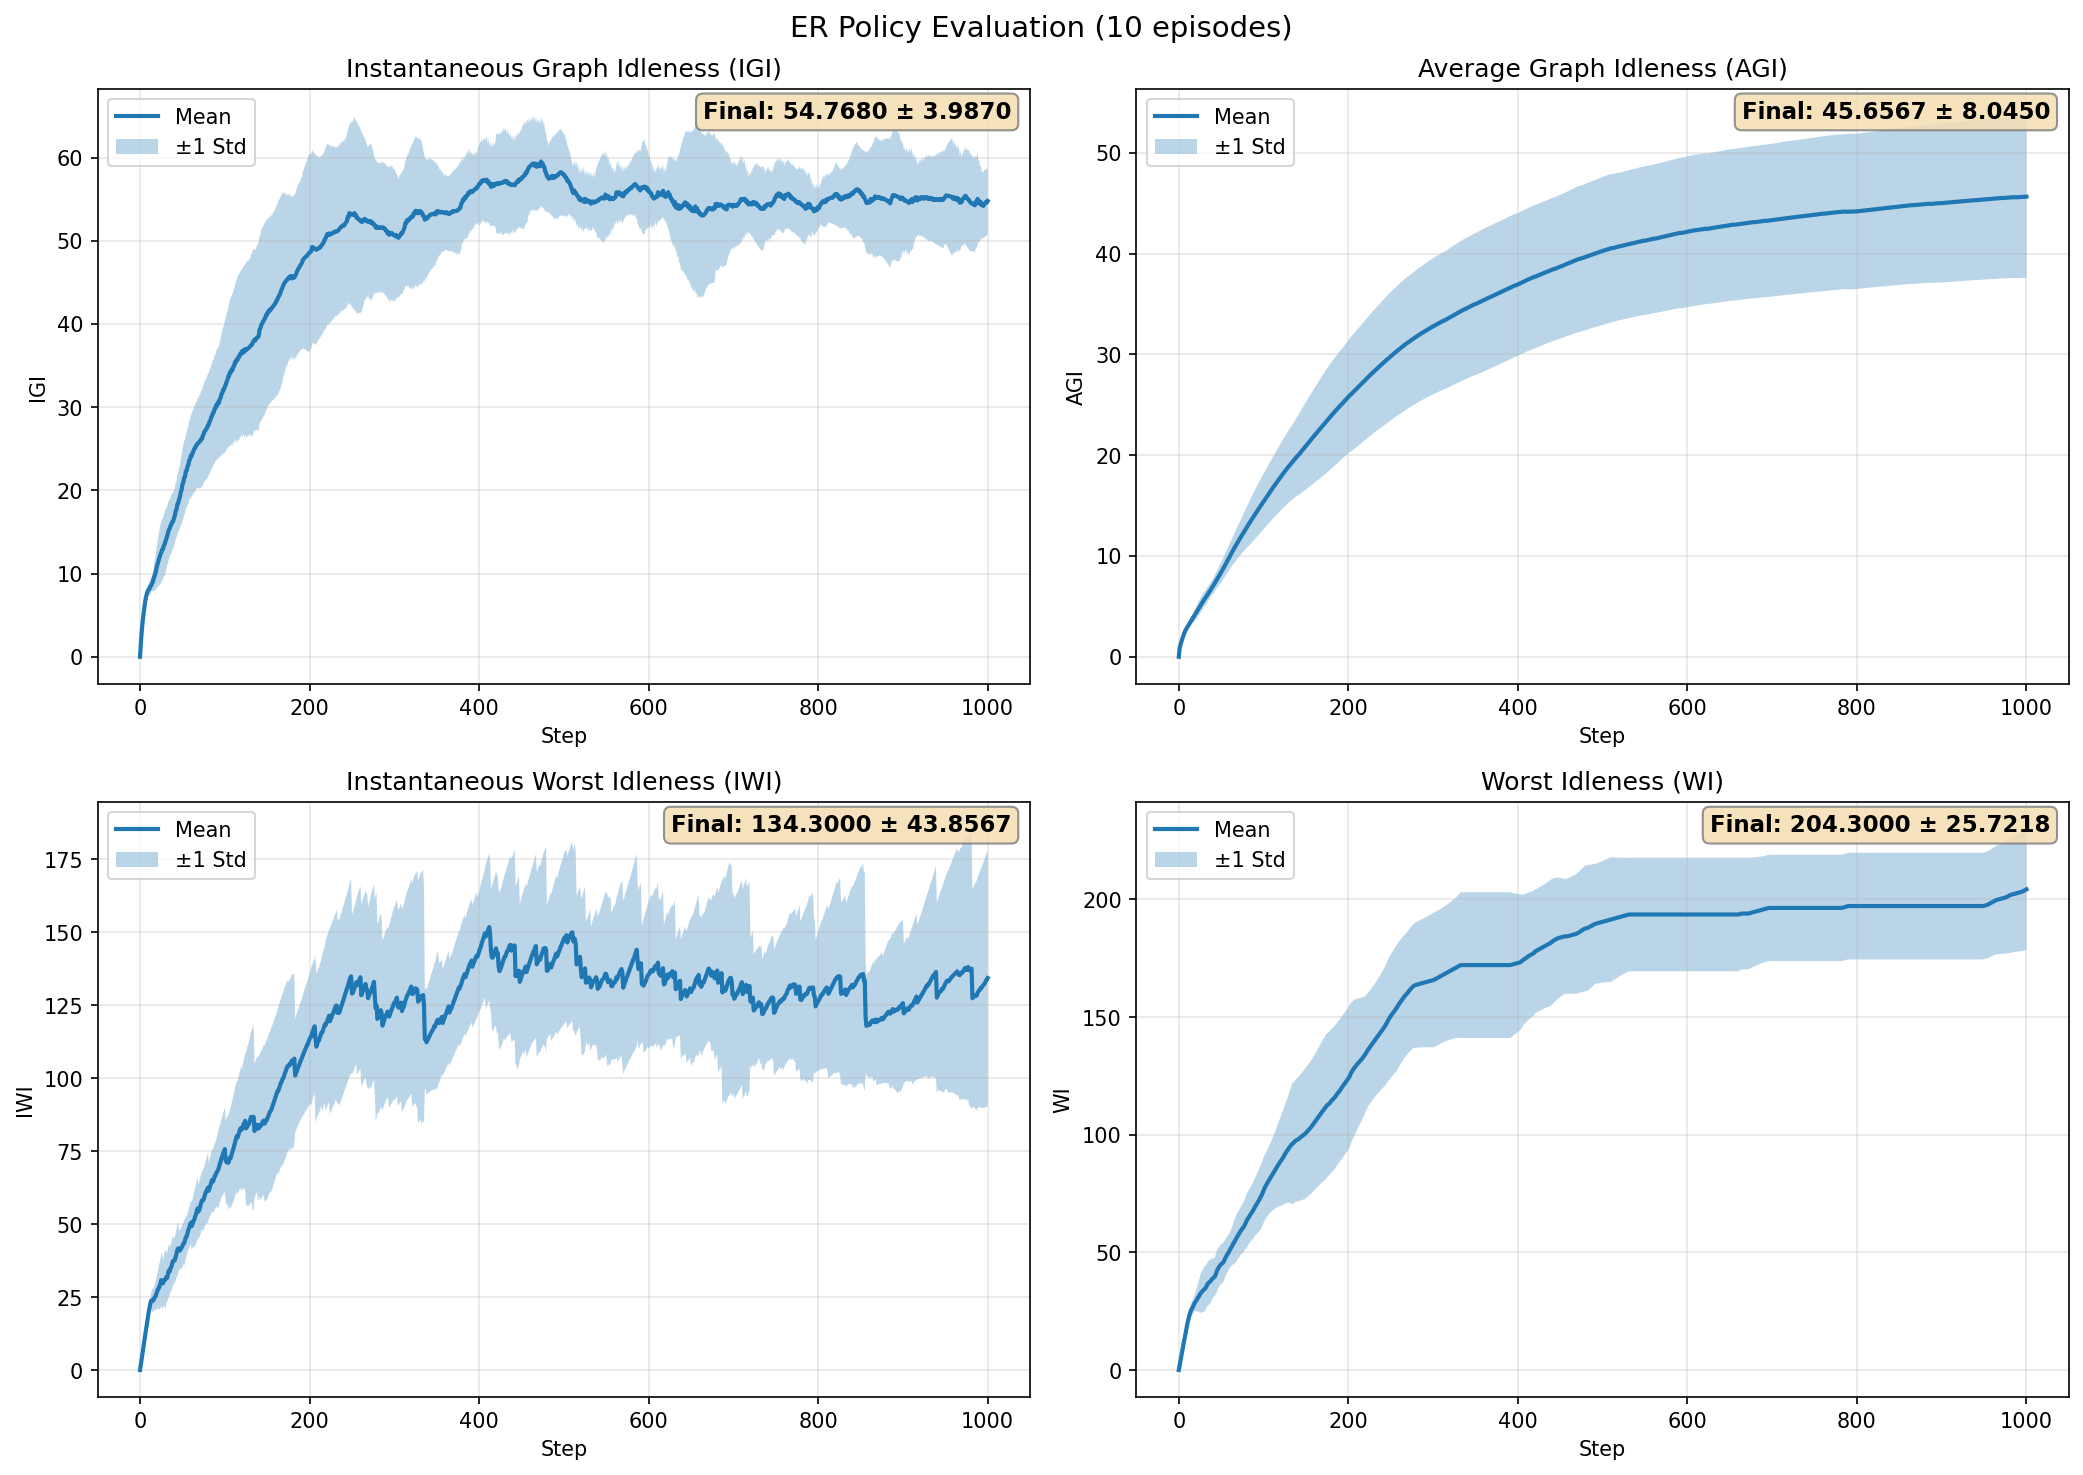
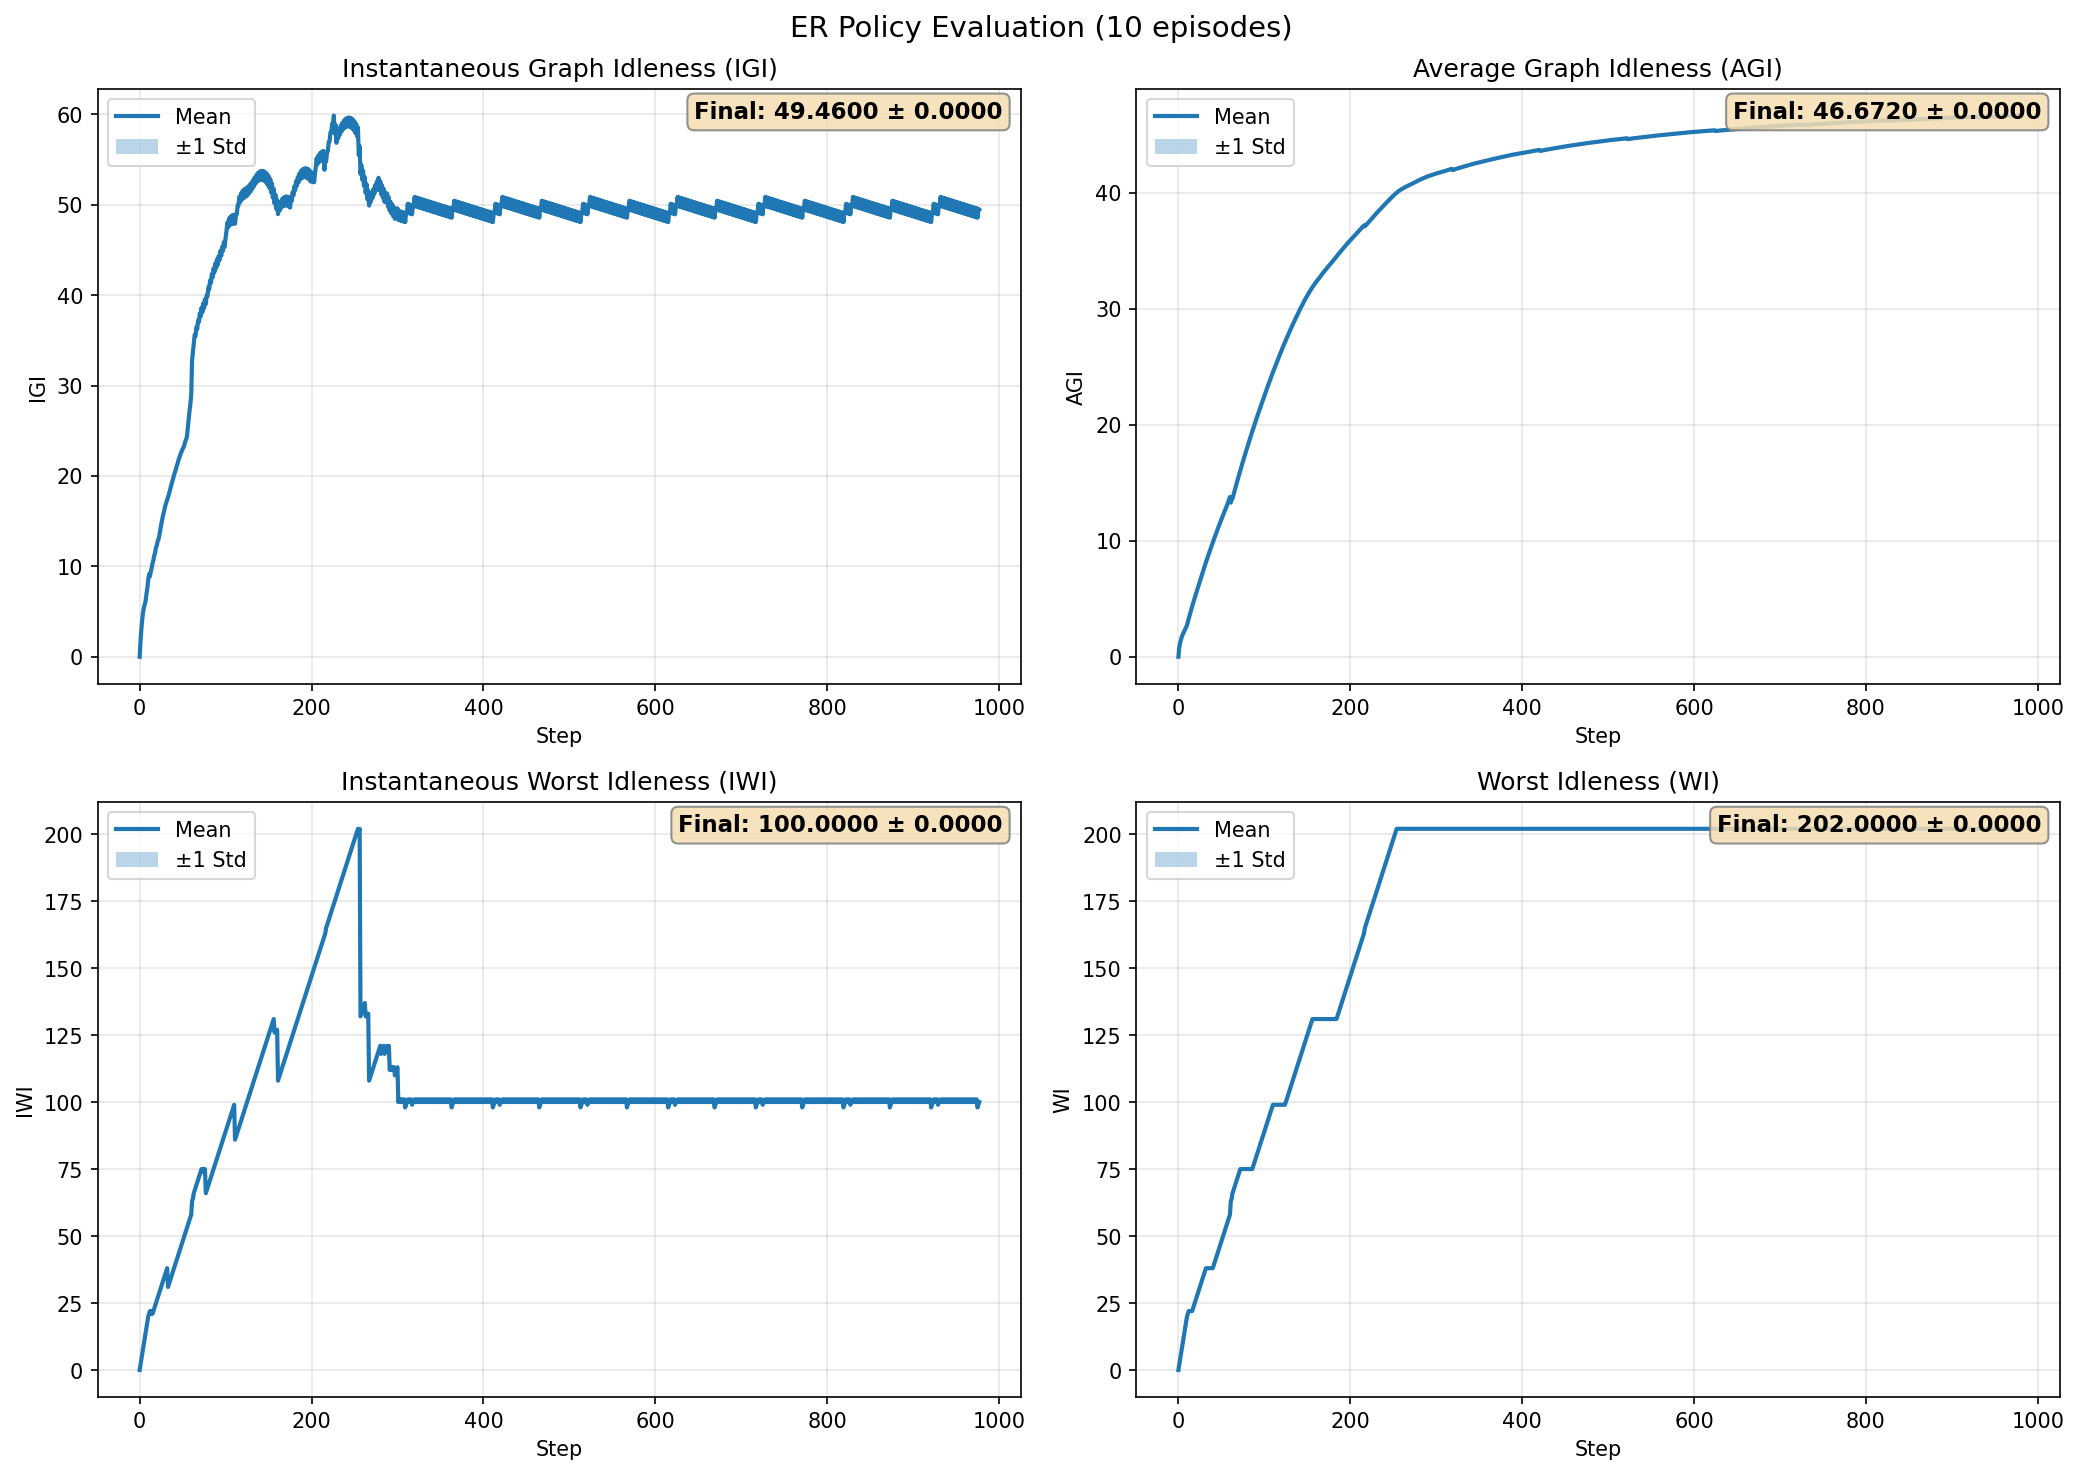
update

diff --git a/trainers/imitator/imitation_trainer.py b/trainers/imitator/imitation_trainer.py
@@ -481,11 +481,11 @@ class imi_trainer:
                 'stopped_iteration': stopped_iter,
                 'run_name': self.run_name,
             },
-            # Value Normalization 统计量
+            # Value Normalization 统计量（转换为 Python 原生类型以兼容 yaml.safe_load）
             'value_normalization': {
                 'use_value_norm': self.use_value_norm,
-                'ret_mean': self.ret_mean,
-                'ret_std': self.ret_std,
+                'ret_mean': float(self.ret_mean),
+                'ret_std': float(self.ret_std),
             } if self.use_value_norm else None,
         }
         with open(actor_dir / 'config.yaml', 'w') as f:
@@ -534,11 +534,11 @@ class imi_trainer:
                 'total_iterations': total_iterations,
                 'run_name': self.run_name,
             },
-            # Value Normalization 统计量
+            # Value Normalization 统计量（转换为 Python 原生类型以兼容 yaml.safe_load）
             'value_normalization': {
                 'use_value_norm': self.use_value_norm,
-                'ret_mean': self.ret_mean,
-                'ret_std': self.ret_std,
+                'ret_mean': float(self.ret_mean),
+                'ret_std': float(self.ret_std),
             } if self.use_value_norm else None,
         }
         with open(ckpt_dir / 'config.yaml', 'w') as f:
@@ -569,15 +569,25 @@ if __name__ == "__main__":
 
     role_inf = "decision"
     
-    # 观测和动作维度均暂时硬编码TSP12 + 3agent
-    if role_inf == "agent-idx":
-        obs_dim = 27
-        critic_states_dim = 26
-    elif role_inf == "decision":
-        obs_dim = 26
-        critic_states_dim = 26
+    # # 观测和动作维度均暂时硬编码TSP12 + 3agent
+    # if role_inf == "agent-idx":
+    #     obs_dim = 27
+    #     critic_states_dim = 26
+    # elif role_inf == "decision":
+    #     obs_dim = 26
+    #     critic_states_dim = 26
 
-    action_dim = 7
+    # action_dim = 7
+
+    # Grid 图 + 8 agents
+    if role_inf == "agent-idx":
+        obs_dim = 78
+        critic_states_dim = 84
+    elif role_inf == "decision":
+        obs_dim = 79
+        critic_states_dim = 84
+
+    action_dim = 9
 
     actor_hidden_dim = [256, 256]
     critic_hidden_dim = [256, 256]
@@ -588,9 +598,9 @@ if __name__ == "__main__":
     config = {
         "actor_lr": 3e-4,
         "critic_lr": 3e-4,
-        "data_path": "dataset/samples_pure_0.01reward_random.npz",
+        "data_path": "dataset/grid/samples_pure_0.01reward_random.h5",
         "batch_size": 1024,
-        "iteration": 35,  # 总训练轮数
+        "iteration": 50,  # 总训练轮数
         # Actor 早停配置
         "actor_patience": 5,  # 连续多少个epoch没有改善就早停
         "actor_min_delta": 1e-5,  # 最小改善量
@@ -601,7 +611,7 @@ if __name__ == "__main__":
         "track": True,  # 设为 True 启用 wandb
         "wandb_project": "MAP-imitation",
         # 模型保存配置
-        "save_dir": "models/pure-norm-random-init",  # 模型保存目录
+        "save_dir": "models/grid-pure-norm-random-init",  # 模型保存目录
         "save_model": True,  # 是否保存模型
     }
 

diff --git a/main.py b/main.py
@@ -21,7 +21,7 @@ from utils.model_io import save_model
 def main():
     # ========== 配置 ==========
     # 环境
-    num_envs = 12
+    num_envs = 24
     use_subproc = True  # True: 多进程并行 (SubprocVectorEnv), False: 单进程串行 (DummyVectorEnv)
     
     # 网络隐藏层（需与预训练时一致）
@@ -29,17 +29,17 @@ def main():
     critic_hidden = [256, 256]
     
     # 训练超参数
-    total_timesteps = 50000000
-    num_steps = 2048  # 每个 env 每次采集的步数
-    num_minibatches = 16
-    update_epochs = 5
+    total_timesteps = 40000000
+    num_steps = 512  # 每个 env 每次采集的步数
+    num_minibatches = 8
+    update_epochs = 3
     actor_lr = 3e-5
     critic_lr = 3e-4
     gamma = 0.999
     gae_lambda = 1.0
     clip_range = 0.2
     vf_coef = 1.0
-    ent_coef = 0.1
+    ent_coef = 0.02
     save_internal = 1000 # 每过xx个iteration保存一次模型参数
     
     # 日志配置
@@ -47,13 +47,15 @@ def main():
     wandb_project = "MAP-RL"
     
     # 预训练权重路径
-    # actor_path = "models/imi-pure-norm-fixed-init/imi_train__1770179612_final/policy.pt"
-    # critic_path = "models/imi-pure-norm-fixed-init/imi_train__1770179612_final/critic.pt"
-    actor_path = "models/imi-pure-norm-random-init/imi_train__1770181266_final/policy.pt"
-    critic_path = "models/imi-pure-norm-random-init/imi_train__1770181266_final/critic.pt"
+    actor_path = "models/grid-pure-norm-random-init/imi_train__1770315556_final/policy.pt"
+    critic_path = "models/grid-pure-norm-random-init/imi_train__1770315556_final/critic.pt"
+    # actor_path = "models/imi-pure-norm-random-init/imi_train__1770181266_final/policy.pt"
+    # critic_path = "models/imi-pure-norm-random-init/imi_train__1770181266_final/critic.pt"
+    # actor_path = ""
+    # critic_path = ""
 
     # 保存路径
-    algo_name = "mappo"
+    algo_name = "mappo-grid"
     exp_name = "imi-norm-random-init"
     now = datetime.now()
     run_name = f"{exp_name}_{now:%Y-%m-%d_%H-%M-%S}"
@@ -146,11 +148,16 @@ def main():
         config_file = config_dir / 'config.yaml'
         if config_file.exists():
             with open(config_file) as f:
-                saved_config = yaml.safe_load(f)
+                # 使用 full_load 以支持包含 numpy 类型的旧配置文件
+                saved_config = yaml.full_load(f)
             if saved_config.get('value_normalization') is not None:
                 value_norm_config = saved_config['value_normalization']
-                print(f"[Main] Loaded value_norm config: mean={value_norm_config.get('ret_mean', 0.0):.4f}, "
-                      f"std={value_norm_config.get('ret_std', 1.0):.4f}")
+                # 确保转换为 Python float（兼容 numpy 标量）
+                ret_mean = float(value_norm_config.get('ret_mean', 0.0))
+                ret_std = float(value_norm_config.get('ret_std', 1.0))
+                value_norm_config['ret_mean'] = ret_mean
+                value_norm_config['ret_std'] = ret_std
+                print(f"[Main] Loaded value_norm config: mean={ret_mean:.4f}, std={ret_std:.4f}")
             else:
                 print(f"[Main] No value_normalization config found, using raw values")
         else:

diff --git a/evaluators/heuristic_evaluator.py b/evaluators/heuristic_evaluator.py
@@ -139,7 +139,7 @@ def main():
                         help='Path to environment config')
     parser.add_argument('--policy_config', type=str, default=None,
                         help='Path to policy config (default: configs/{POLICY}.yaml)')
-    parser.add_argument('--save_plot', type=str, default='evaluators/results/heuristic_eval_TSP12.png',
+    parser.add_argument('--save_plot', type=str, default='evaluators/results/heuristic_eval_grid.png',
                         help='Path to save plot (default: evaluators/results/heuristic_eval.png)')
     parser.add_argument('--no_show', action='store_true',
                         help='Do not display plot')
@@ -155,6 +155,7 @@ def main():
     # 从配置中提取终止条件参数
     episode_len = env_config.get('episode_len', 5000)
     truncate_by_time = custom_config.get('truncate_by_time', True)
+    init_positions = env_config.get('init_positions', None)
 
     # Load policy config
     policy_config_path = args.policy_config or f"configs/{args.policy}.yaml"
@@ -164,6 +165,7 @@ def main():
     # 直接创建 PatrolWorld（不需要 MDP 封装）
     print(f"Creating PatrolWorld with graph: {env_config['graph_path']}")
     print(f"  episode_len: {episode_len}, truncate_by_time: {truncate_by_time}")
+    print(f"  init_positions: {init_positions if init_positions else 'random'}")
     world = PatrolWorld(env_config)
 
     # Create policy
@@ -174,7 +176,8 @@ def main():
     evaluator = HeuristicEvaluator(
         world, policy, args.num_episodes,
         episode_len=episode_len,
-        truncate_by_time=truncate_by_time
+        truncate_by_time=truncate_by_time,
+        init_positions=init_positions
     )
     aggregated = evaluator.evaluate()
 

diff --git a/trainers/imitator/heuristic_sampler.py b/trainers/imitator/heuristic_sampler.py
@@ -917,7 +917,7 @@ if __name__ == "__main__":
     
     parser = argparse.ArgumentParser(description="Heuristic Sampler for Actor-Critic Pre-training")
     parser.add_argument("--num_episodes", type=int, default=50000, help="Number of episodes to collect")
-    parser.add_argument("--save_path", type=str, default="dataset/grid/samples_pure_0.01reward_random.npz", help="Save path for NPZ file")
+    parser.add_argument("--save_path", type=str, default="dataset/grid/samples_pure_0.01reward_random.h5", help="Save path for NPZ file")
     parser.add_argument("--gamma", type=float, default=0.999, help="Discount factor for returns")
     parser.add_argument("--eps", type=float, default=0.0, help="Epsilon-greedy exploration probability")
     parser.add_argument("--batch_size", type=int, default=2048, help="Batch size for memory-efficient processing")